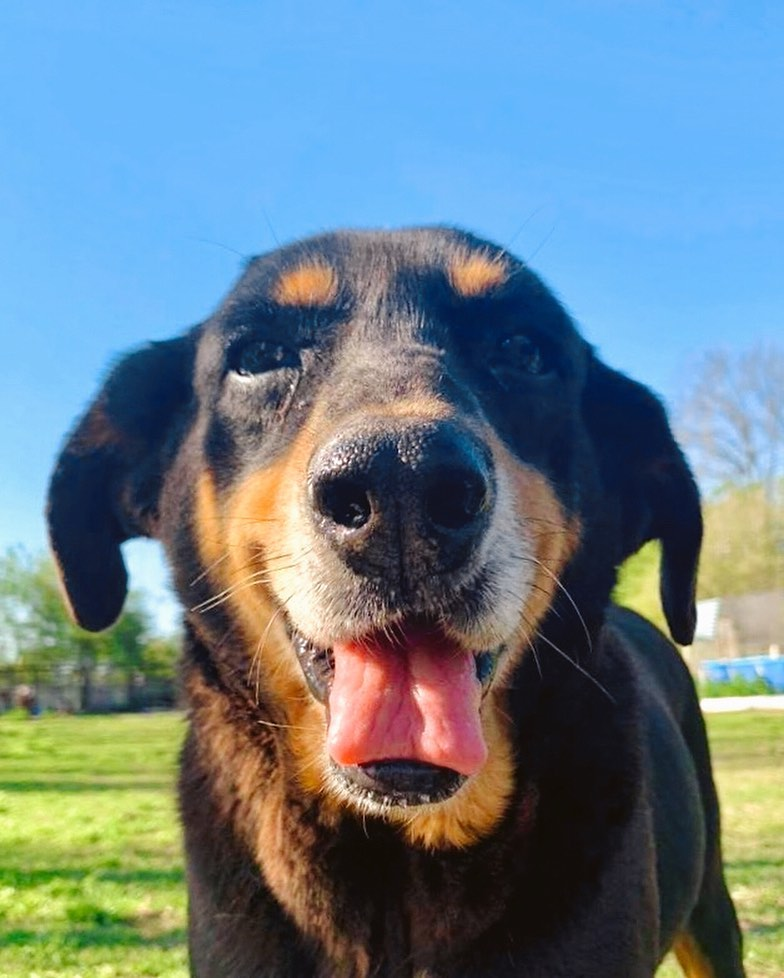
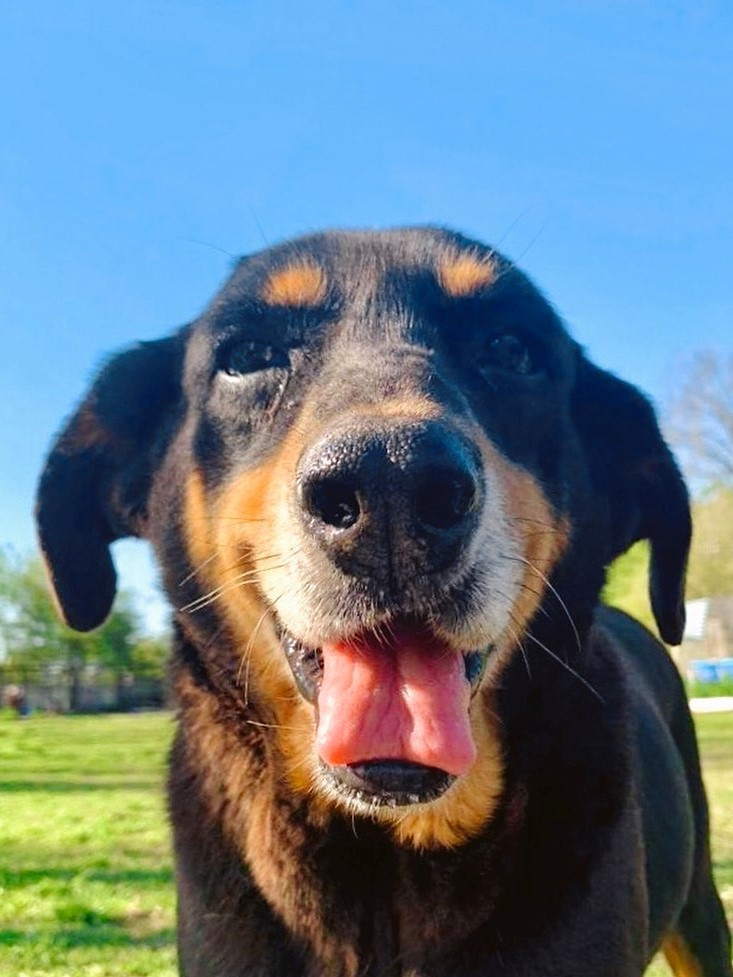
adopciones
tamaño imagenes del carousel

Changed region(s): [[0.2401, 0.2149, 1.0, 1.0], [0.0, 0.3685, 0.1801, 1.0], [0.2401, 0.9826, 0.2701, 1.0]]

diff --git a/style/style.css b/style/style.css
@@ -78,6 +78,9 @@ main #adopciones .anotaciones {
   font-size: 16px;
   margin-bottom: 20px;
 }
+main #adopciones img {
+  border-radius: 15px;
+}
 main #adopciones #adopciones_galeria--row {
   display: none;
   overflow-x: scroll;
@@ -100,10 +103,6 @@ main #adopciones #adopciones_galeria--row .image-container .galeria_nombres {
   top: 80%;
   color: #fff;
   font-family: "Indie Flower";
-}
-main #adopciones img {
-  width: 100%;
-  border-radius: 15px;
 }
 main #adopciones #adopciones_galeria--carousel {
   display: none;
@@ -469,11 +468,12 @@ html header nav .menu_enlaces {
 }
 html header .menuShow {
   position: fixed;
-  transition: 0.5s;
+  transition: 0.4s ease;
   height: 100vh;
   width: 100%;
   flex-direction: column;
   padding-top: 30px;
+  overflow-y: scroll;
 }
 html header .menuShow .menu_enlaces {
   width: 100%;
@@ -625,7 +625,10 @@ html footer .copyright a:hover {
 }
 @media only screen and (min-width: 768px) {
   html header .menuShow {
-    width: 40vw;
+    width: 35vw;
+  }
+  html header nav .nav_logo a span {
+    font-size: 40px;
   }
   html main article p, html main li {
     font-size: 18px;
@@ -689,11 +692,19 @@ html footer .copyright a:hover {
 }
 @media only screen and (orientation: landscape) {
   html header .menuShow {
-    width: 100vw;
+    width: 35vw;
   }
   html header .menuShow .menu_enlaces {
-    flex-direction: row;
-    justify-content: center;
+    margin-top: 10px;
+  }
+  html header .menuShow .menu_enlaces li {
+    padding: 7px;
+  }
+  html header .menuShow .menu_enlaces li a {
+    font-size: 18px;
+  }
+  html header nav .nav_logo a span {
+    font-size: 30px;
   }
   html main .img_goDown {
     display: block;

diff --git a/html/adopciones.html b/html/adopciones.html
@@ -68,6 +68,7 @@
       <section id="adopciones">
             <h1 class="col-12 col-sm-6 col-lg-4 titles animate__animated animate__zoomIn">ADOPCIONES</h1>
             <p class="anotaciones">Deslizá para conocer más perritos</p>
+            <!-- GALERIA ROW -->
             <article data-aos="fade-right" data-aos-duration="700"  id="adopciones_galeria--row">
               <div class="image-container">
                 <img src="../assets/animales/sanson.jpg" alt="Sansón">
@@ -125,7 +126,8 @@
               </div>
             </article>
             
-            <div data-aos="zoom-in" data-aos-duration="700" id="adopciones_galeria--carousel" class="carousel slide" data-bs-ride="carousel">
+            <!-- GALERIA CAROUSEL -->
+            <div id="adopciones_galeria--carousel"  data-aos="zoom-in" data-aos-duration="700" class="carousel slide" data-bs-ride="carousel">
               <div class="carousel-indicators">
                 <button type="button" data-bs-target="#adopciones_galeria--carousel" data-bs-slide-to="0" class="active" aria-current="true" aria-label="Imagen 1"></button>
                   <button type="button" data-bs-target="#adopciones_galeria--carousel" data-bs-slide-to="1" aria-label="Imagen 2"></button>

diff --git a/style/_responsive.scss b/style/_responsive.scss
@@ -88,7 +88,8 @@
 @media only screen and (min-width: 768px) {
     html {
         header {
-            .menuShow {width: 40vw;}
+            .menuShow {width: 35vw;}
+            nav .nav_logo a span {font-size: 40px;}
         }
         main {
             //GENERAL
@@ -173,12 +174,16 @@
     html {
         header {
             .menuShow {
-                width: 100vw;
+                width: 35vw;
                 .menu_enlaces {
-                    flex-direction: row;
-                    justify-content: center;
+                    margin-top: 10px;
+                    li {
+                        padding: 7px;
+                        a {font-size: 18px;}
+                    }
                 }
             } 
+            nav .nav_logo a span {font-size: 30px;}
         }
         main {
             .img_goDown {display: block;}

diff --git a/style/style.scss b/style/style.scss
@@ -139,7 +139,7 @@ html {
     }
     //FIN CLASES
 
-    header{
+    header {
         nav {
             display: flex;
             position: sticky;
@@ -203,11 +203,12 @@ html {
         }
         .menuShow {
             position: fixed;
-            transition: .5s;
+            transition: .4s ease;
             height: 100vh;
             width: 100%;
             flex-direction: column;
             padding-top: 30px;
+            overflow-y: scroll;
             .menu_enlaces {
                 width: 100%;
                 display: flex;

diff --git a/style/_adopciones.scss b/style/_adopciones.scss
@@ -14,6 +14,7 @@ main {
             font-size: 16px;
             margin-bottom: 20px;
         }
+        img {border-radius: 15px;}
         #adopciones_galeria--row {
             display: none;
             overflow-x: scroll;
@@ -36,10 +37,6 @@ main {
                     font-family: map-get($fonts,galeria_nombres);
                 }
             }
-        }
-        img {
-            width: 100%;
-            border-radius: 15px;
         }
         #adopciones_galeria--carousel {
             display: none;
